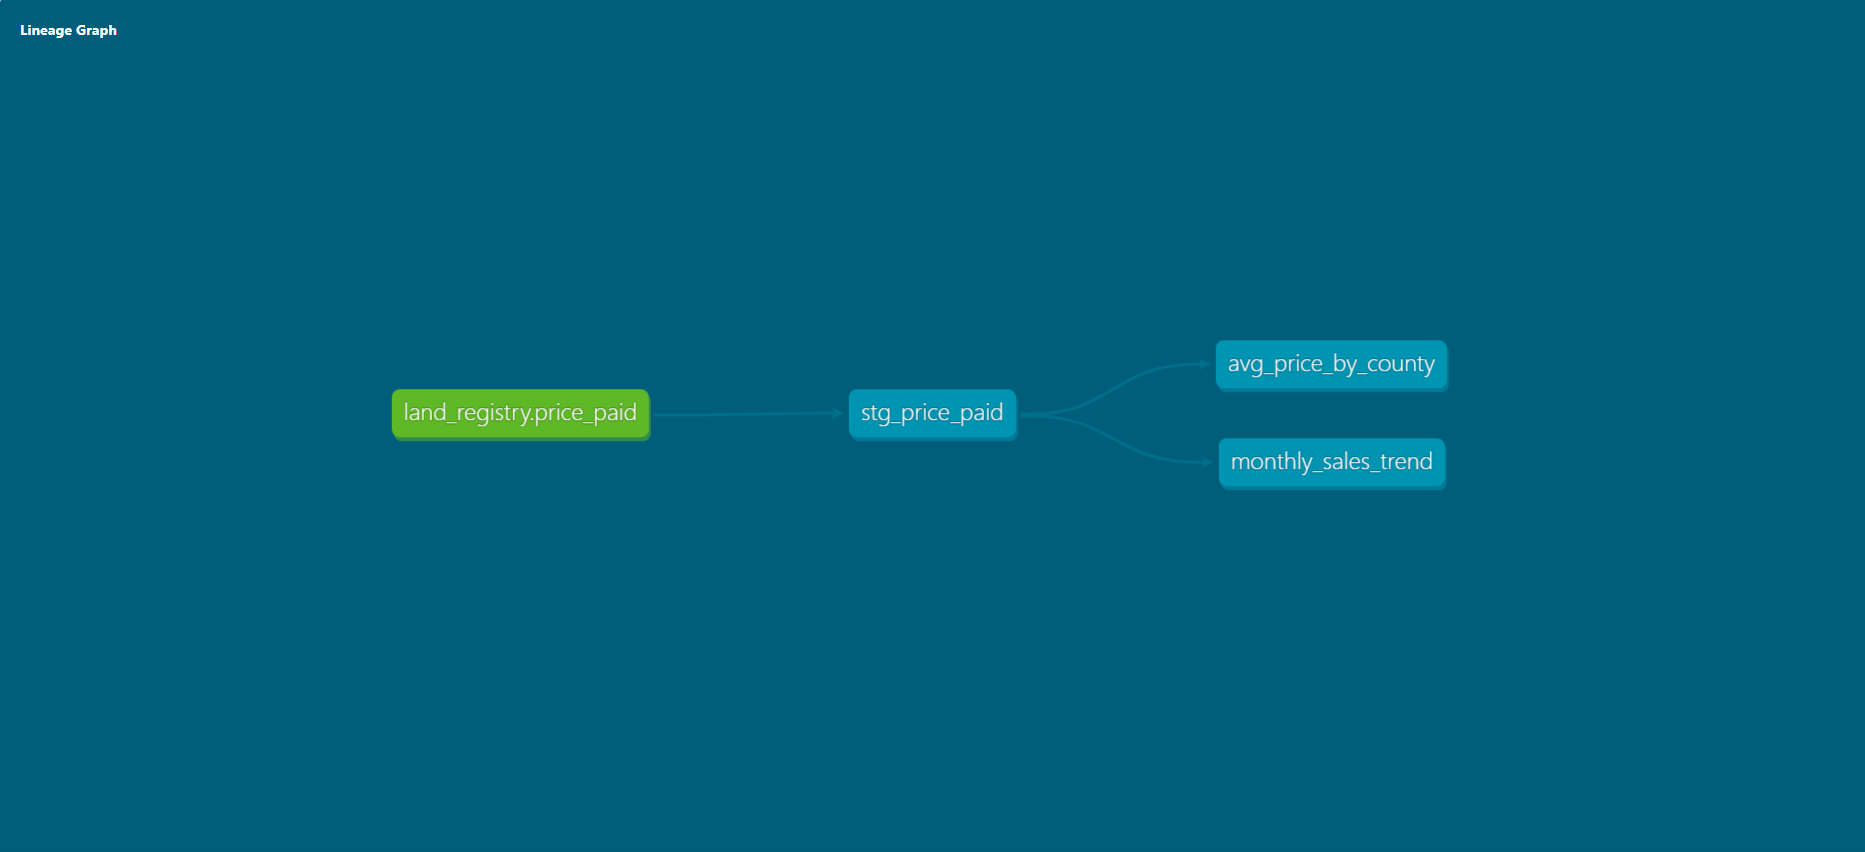
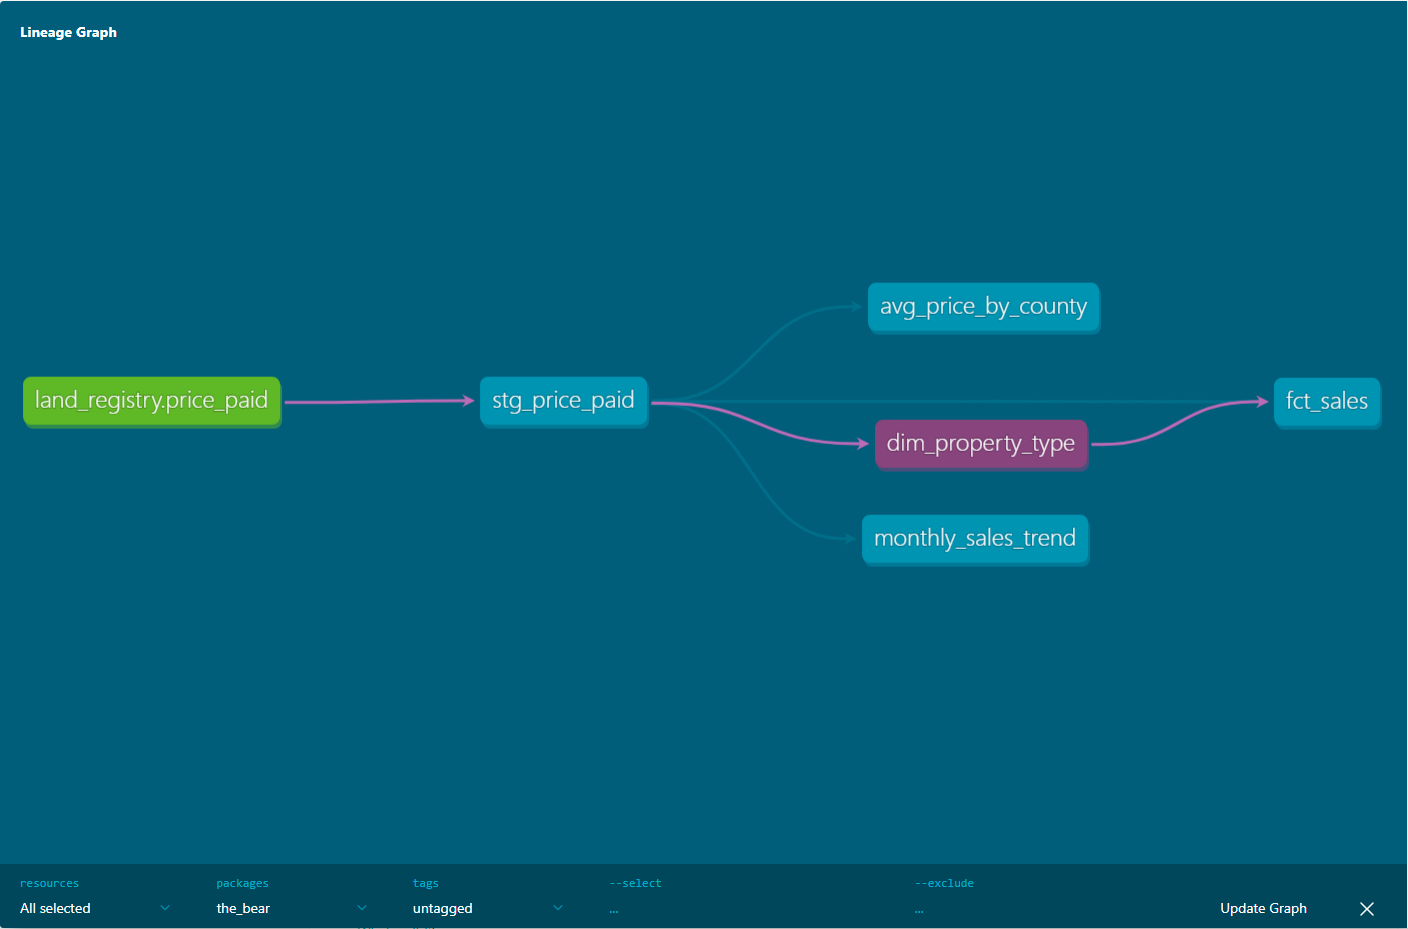
Extend pipeline to six years and a tested star schema

diff --git a/README.md b/README.md
@@ -1,17 +1,22 @@
 # UK Property Price Pipeline (dbt + DuckDB)
 
-An analytics-engineering pipeline that transforms ~880,000 UK property
-sale records from HM Land Registry into clean, tested, business-ready
-tables using dbt and DuckDB.
+An analytics-engineering pipeline that transforms six years of UK property
+sale records from HM Land Registry into a clean, tested dimensional model
+using dbt and DuckDB.
 
 ## What it does
 
-Raw Land Registry "Price Paid" data (one year, 879,386 transactions)
-flows through three layers:
+Raw Land Registry "Price Paid" data (2020 to 2025, 5.9 million
+transactions) flows through three layers:
 
-- **Source** — the raw yearly CSV, declared as a dbt source
+- **Source** — six yearly CSVs, read together via a wildcard and declared
+  as a single dbt source
 - **Staging** (`stg_price_paid`) — columns renamed and typed, light cleaning
-- **Marts** — business-ready aggregates:
+- **Marts** — a dimensional model plus business-ready aggregates:
+  - `fct_sales` — sales fact table, one row per transaction, joined to its
+    property type dimension
+  - `dim_property_type` — property type dimension, mapping Land Registry
+    codes to readable labels
   - `avg_price_by_county` — average and median sale price by region
   - `monthly_sales_trend` — sales volume and average price by month
 
@@ -19,11 +24,21 @@ flows through three layers:
 
 ![Lineage Graph](images/lineage_graph.png)
 
+The graph shows a star schema: raw data cleaned once in staging, then
+modelled into a fact table that references its dimension, alongside two
+aggregate marts.
+
 ## Data quality
 
-Six dbt tests run on every build: uniqueness and not-null on the
-transaction key, not-null on price and date, and accepted-values checks
-on the property type and old/new fields. All passing across all records.
+Fourteen dbt tests run on every build, including:
+
+- uniqueness and not-null on transaction keys
+- not-null on price and date
+- accepted-values checks on property type and old/new fields
+- a relationships test confirming every sale links to a valid property
+  type (referential integrity across the full dataset)
+
+All tests passing across all records.
 
 ## Tech stack
 
@@ -31,9 +46,10 @@ dbt Core, dbt-duckdb, DuckDB.
 
 ## Running it locally
 
-1. Download a yearly Price Paid CSV from
+1. Download one or more yearly Price Paid CSVs from
    https://www.gov.uk/guidance/about-the-price-paid-data
-2. Place it in a `data/` folder (the file is gitignored due to size).
+2. Place them in a `data/` folder, named `pp-YYYY.csv` (the files are
+   gitignored due to size).
 3. Update the `external_location` path in `models/staging/_sources.yml`
-   to point to your CSV.
+   to point to your `data/` folder.
 4. Run `dbt run` to build, then `dbt test` to validate.
